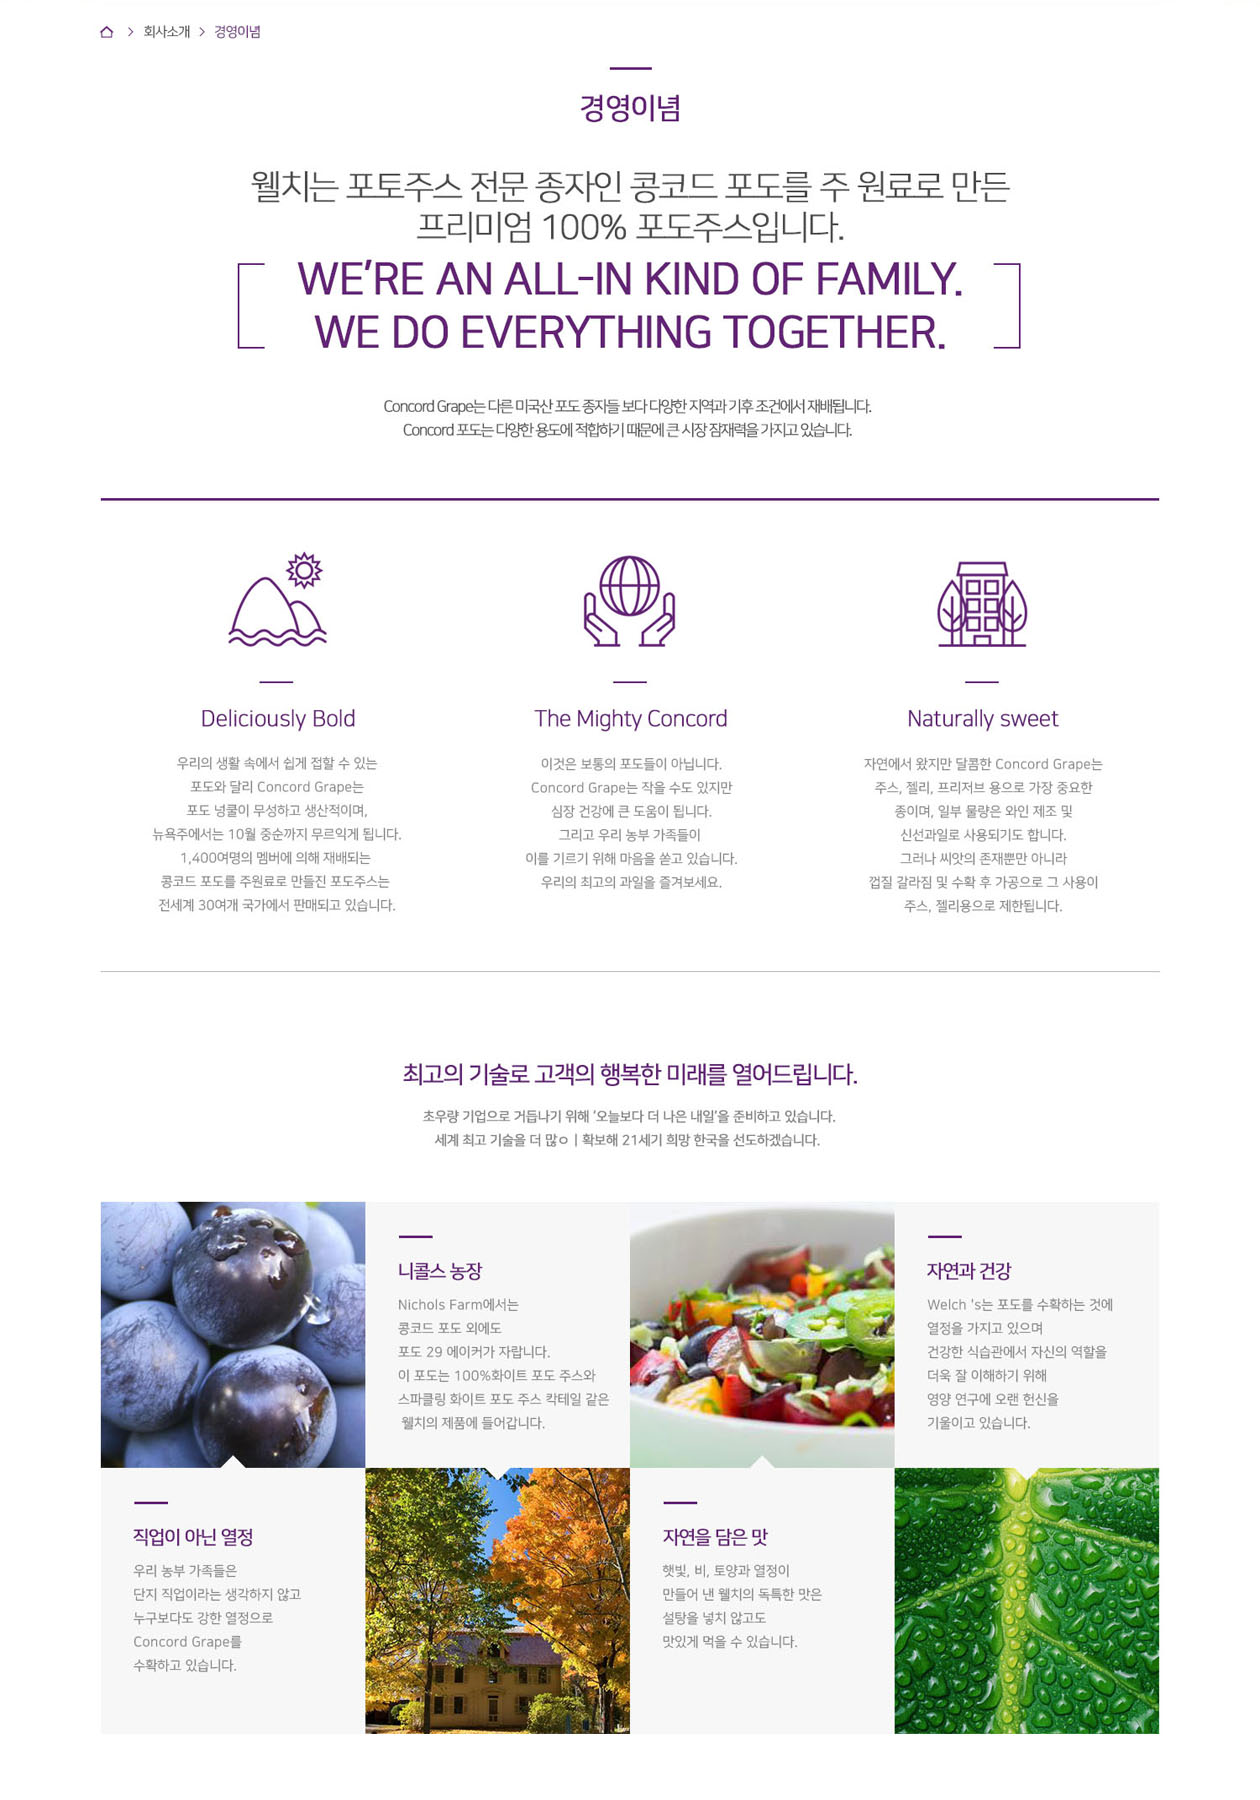
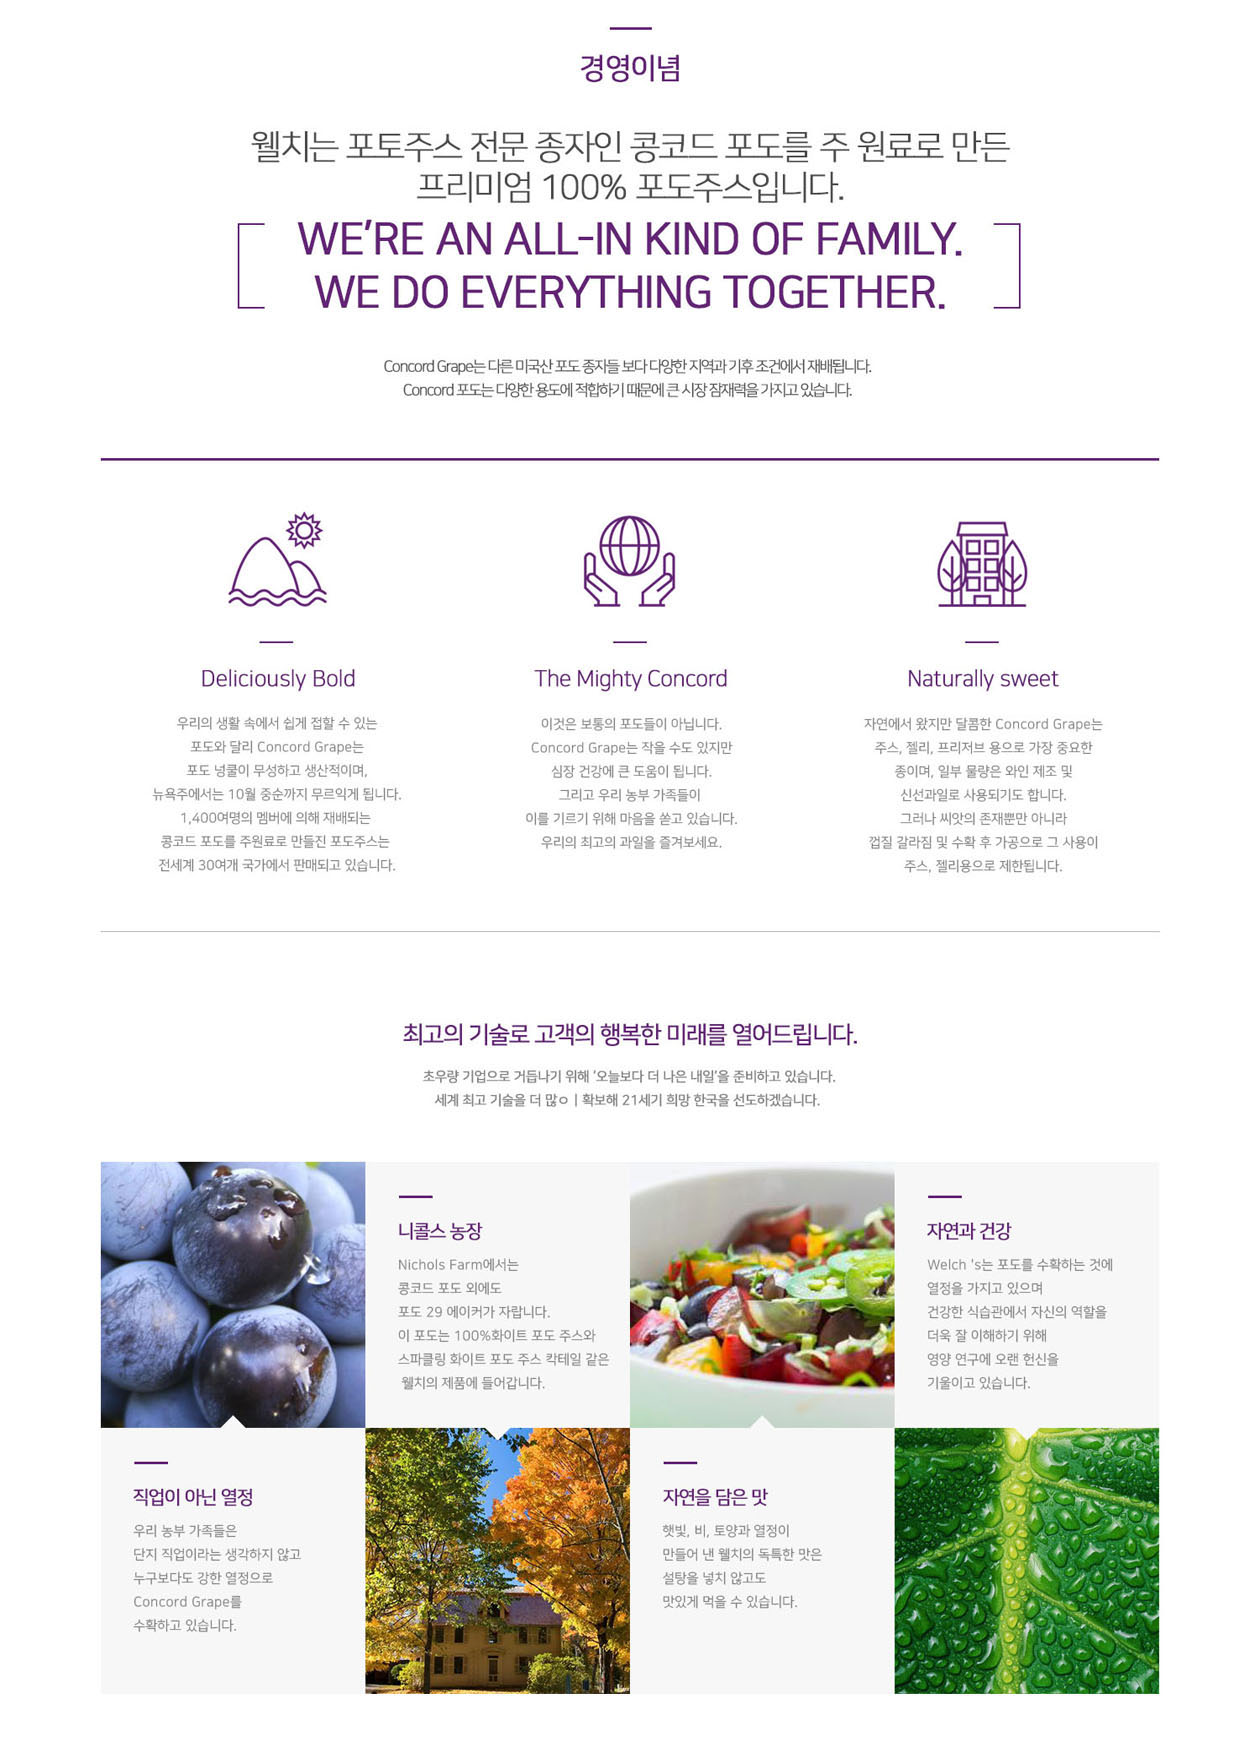
company

Changed region(s): [[0.0619, 0.5625, 0.9286, 0.9688], [0.0929, 0.0312, 0.8976, 0.5312], [0.1857, 0.0, 0.2167, 0.0312]]

diff --git a/04company/css/style.css b/04company/css/style.css
@@ -1,14 +1,15 @@
 @charset "utf-8";
-#sub_header > #sub_header_top > #sub_menu > ul> li > a.on{color: #632475;
+body{min-width: 1260px;}
+#sub_header > #sub_header_top > #sub_menu > ul> li > a.on{color: #fff;
+text-shadow: -3px 0 5px #b3b3b3,3px 0 5px #b3b3b3,0 0 15px #000;}
+#sub02_header > #sub02_header_top > #sub02_menu > ul> li > a.on{color: #fff;
+text-shadow: 0 0 10px #000;}
+#sub03_header > #sub03_header_top > #sub03_menu > ul> li > a.on{color: #4c4c4c;
 text-shadow: 0 0 5px #fff,0 0 5px #fff,0 0 5px #fff;}
-#sub02_header > #sub02_header_top > #sub02_menu > ul> li > a.on{color: #632475;
-text-shadow: 0 0 5px #fff,0 0 5px #fff,0 0 5px #fff;}
-#sub03_header > #sub03_header_top > #sub03_menu > ul> li > a.on{color: #632475;
-text-shadow: 0 0 5px #fff,0 0 5px #fff,0 0 5px #fff;}
-#sub04_header > #sub04_header_top > #sub04_menu > ul> li > a.on{color: #632475;
-text-shadow: 0 0 5px #fff,0 0 5px #fff,0 0 5px #fff;}
-#sub05_header > #sub05_header_top > #sub05_menu > ul> li > a.on{color: #632475;
-text-shadow: 0 0 5px #fff,0 0 5px #fff,0 0 5px #fff;}
+#sub04_header > #sub04_header_top > #sub04_menu > ul> li > a.on{color: #fff;
+text-shadow: 0 0 10px #000,0 0 20px #000;}
+#sub05_header > #sub05_header_top > #sub05_menu > ul> li > a.on{color: #fff;
+text-shadow: 0 0 10px #000,0 0 10px #000;}
 
 
 #main_header{height:1950px; position: relative;}
@@ -23,6 +24,12 @@ text-shadow: 0 0 5px #fff,0 0 5px #fff,0 0 5px #fff;}
 	#main_menu ul li a{display:block;padding:0 30px;
 		color: #4c4c4c;line-height:50px;
 		font-weight:bold;}
+	#main_menu ul li>a:after{content:"";display: block;
+		width: 0;height: 2px;
+		margin-top: -7px;
+		background-color: #632475;
+		transition: .3s;}
+	#main_menu ul li a:hover:after{width: 100%;}
 	#main_menu ul>li.kro,
 	#main_menu ul>li.eng{display:block;
 		width: 50px;height: 50px;}
@@ -30,6 +37,8 @@ text-shadow: 0 0 5px #fff,0 0 5px #fff,0 0 5px #fff;}
 	#main_menu ul>li.eng{border:1px solid #632475;}
 		#main_menu ul li.kro>a,
 		#main_menu ul li.eng>a{padding-left: 10px;color:#fff;font-weight:normal;}
+		#main_menu ul li.kro>a:after{display: none;}
+		#main_menu ul li.eng>a:after{display: none;}
 		#main_menu ul li.eng>a{color: #4c4c4c;}
 
 /*bxslider*/
@@ -280,48 +289,54 @@ footer{width : 100%; height:200px ;background-color: #fff;
 
 
 /*----------------------------------------sub01----------------------------------------*/
-#sub_header{height: 460px;margin: 0 auto;
-		background: url(../images/sub_img_01.jpg)no-repeat;
-		background-size: cover;position: relative;}
+#sub_header{height: 450px;margin: 0 auto;
+	background: url(../images/sub_img_01_1.png)no-repeat bottom;
+	background-size: cover;position: relative;}
+#sub_header:after{position: absolute;bottom: 0;
+	left: 50%;transform: translate(-50%);
+	content:"";display: block;width: 1260px;height: 1px;
+	background-color: #e5e5e5;}
 	#sub_header_top{width:1260px;height:50px;
-		margin: 0 auto;/*
-		position:absolute;left:50%;margin-left:-630px;
-		top:40px;z-index: 1;*/}
+		margin: 0 auto;}
 	#sub_header_top > a{float:left;padding-top: 25px;}
 	
 	#sub_menu{float:right;}
 	#sub_menu ul{padding-top: 25px;}
 	#sub_menu ul li{float: left;}
 	#sub_menu ul li a{display:block;padding:0 30px;
-		color: #fff;line-height:50px;
-		font-weight:bold;}
+		color: #ccc;line-height:50px;
+		font-weight:bold;
+		_text-shadow: 0 0 15px #fff,0 0 10px #fff;}
 	#sub_menu ul>li.kro,
 	#sub_menu ul>li.eng{display:block;
 		width: 50px;height: 50px;}
 	#sub_menu ul>li.kro{background-color: #632475;}
 	#sub_menu ul>li.eng{border:1px solid #632475;}
+		#sub_menu ul li.kro>a{color: #fff;text-shadow: none;}
 		#sub_menu ul li.kro>a,
 		#sub_menu ul li.eng>a{padding-left: 10px;font-weight:normal;}
-		#sub_menu2{width: 980px;margin: 0 auto; 
-			position: absolute;left: 50%;margin-left: -480px;bottom: 0;}
+		#sub_menu2{width: 910px;margin: 0 auto; 
+			position: absolute;bottom: 0;
+			left: 50%;transform: translate(-50%,0);}
 		#sub_menu2 ul{}
-		#sub_menu2 li{float: left;width: 50%;height: 60px;
-			border-bottom: 2px solid #632475;
-			border-right:1px solid #bdbdbd;
-			background-color: #fff;
+		#sub_menu2 li{float: left;width: 450px;height: 60px;
+			background-color: rgba(255,255,255,0.5);
 			text-align: center;line-height: 60px;}
-		#sub_menu2 .active{background-color: #632475;}
-		#sub_menu2 .active a{color: #fff;font-weight: bold;}
-		#sub_menu2 li:last-child{border-right: none;}
-		#sub_menu2 a{display:block;color:#808080;}
+		#sub_menu2 li:last-child{margin-left: 10px;}
+		#sub_menu2 .active{background-color: rgba(99,36,117,0.7);}
+		#sub_menu2 .active a{color: #fff;}
+		#sub_menu2 a{display:block;font-weight: bold;color:#808080;}
 		/*text*/
 		#sub_txt{padding-top: 170px;color:white;text-align: center;}
-		#sub_txt p{font-size:1.2em;}
-		#sub_txt h3{font-size:2em;padding-top: 30px;}
+		#sub_txt p{font-size:1.3em;}
+		#sub_txt h3{font-size:2em;padding-top: 10px;}
 
 	/*content*/
-	#sub_content{}		
-		.sub_img{width: 1260px;margin: 0 auto;}
+	#sub_content{width: 1260px;margin: 0 auto;}
+		.sub_img{}
+		.sub_img p{color:#4c4c4c;font-size:0.9em;
+			margin: 30px 0 0 100px;}
+		.sub_img span{font-weight:bold;font-size: 1.1em;}
 		.sub_img div{display: none;}
 		.sub_img div:first-child{display: block;}
 
@@ -397,9 +412,13 @@ footer{width : 100%; height:200px ;background-color: #fff;
 
 
 /*----------------------------------------sub02----------------------------------------*/
-#sub02_header{height: 615px;margin: 0 auto;
-		background: url(../images/sub_img_02.jpg)no-repeat right;
+#sub02_header{height: 450px;margin: 0 auto;
+		background: url(../images/sub_img_02_1.png)no-repeat bottom;
 		background-size: cover;position: relative;}
+#sub02_header:after{position: absolute;bottom: 0;
+	left: 50%;transform: translate(-50%);
+	content:"";display: block;width: 1260px;height: 1px;
+	background-color: #e5e5e5;}
 	#sub02_header_top{width:1260px;height:50px;
 		margin: 0 auto;/*
 		position:absolute;left:50%;margin-left:-630px;
@@ -420,24 +439,23 @@ footer{width : 100%; height:200px ;background-color: #fff;
 		#sub02_menu ul li.kro>a{color:#fff;}
 		#sub02_menu ul li.kro>a,
 		#sub02_menu ul li.eng>a{padding-left: 10px;font-weight:normal;}
-		#sub02_menu2{width: 1260px;margin: 0 auto; 
-			position: absolute;left: 50%;margin-left: -630px;bottom: 0;}
+		#sub02_menu2{width: 910px;margin: 0 auto; 
+			position: absolute;bottom: 0;
+			left: 50%;transform: translate(-50%,0);}
 		#sub02_menu2 ul{}
-		#sub02_menu2 li{float: left;width: 50%;height: 60px;
-			border-bottom: 2px solid #632475;
-			border-right:1px solid #bdbdbd;
+		#sub02_menu2 li{float: left;width: 450px;height: 60px;
 			background-color: #fff;
 			text-align: center;line-height: 60px;}
-		#sub02_menu2 .active{background-color: #632475;}
-		#sub02_menu2 .active a{color: #fff;font-weight: bold;}
-		#sub02_menu2 li:last-child{border-right: none;}
-		#sub02_menu2 a{display:block;color:#808080;}
+		#sub02_menu2 li:last-child{margin-left: 10px;}
+		#sub02_menu2 .active{background-color: rgba(99,36,117,0.7);}
+		#sub02_menu2 .active a{color: #fff;}
+		#sub02_menu2 a{display:block;font-weight: bold;color:#808080;}
 		/*text*/
-		#sub02_txt{padding-top: 170px;color:white;text-align: center;}
-		#sub02_txt h3{font-size:2em;
-			color:#fff;
-			text-shadow: 
-			3px 0 0 #4c4c4c,
+		#sub02_txt{padding-top: 130px;color:white;text-align: center;}
+		#sub02_txt p{font-size:1.2em;font-weight: bold;
+			color:#fff;margin-bottom: 10px;
+			text-shadow:0 0 15px #000 
+			/*3px 0 0 #4c4c4c,
 			-3px 0 0 #4c4c4c,
 			0 3px 0 #4c4c4c,
 			0 -3px 0 #4c4c4c,
@@ -445,7 +463,8 @@ footer{width : 100%; height:200px ;background-color: #fff;
 			3px 3px 0 #4c4c4c,
 			-3px 3px 0 #4c4c4c,
 			3px -3px 0 #4c4c4c,
-			-3px -3px 0 #4c4c4c;}
+			-3px -3px 0 #4c4c4c*/;}
+		#sub02_txt img{width: 400px;height: 120px;}
 
 /*content*/
 	#sub02_content{}		
@@ -492,9 +511,9 @@ footer{width : 100%; height:200px ;background-color: #fff;
 		#sub03_menu ul li.kro>a,
 		#sub03_menu ul li.eng>a{padding-left: 10px;font-weight:normal;}
 		/*text*/
-		#sub03_txt{padding-top: 170px;color:white;text-align: center;}
-		#sub03_txt p{font-weight: bold;}
-		#sub03_txt h3{font-size: 1.5em;}
+		#sub03_txt{padding-top: 180px;color:white;text-align: center;}
+		#sub03_txt p{font-size:1.3em;}
+		#sub03_txt h3{font-size:2em;padding-top: 10px;}
 		#sub03_txt h4{color:#4c4c4c;font-size:1.5em;
 			position: absolute;bottom: 0;left: 100px;}
 /*content*/
@@ -522,7 +541,7 @@ footer{width : 100%; height:200px ;background-color: #fff;
 
 /*----------------------------------------sub04----------------------------------------*/
 #sub04_header{height: 450px;margin: 0 auto;
-	background: url(../images/sub_img_04.png) no-repeat bottom;
+	background: url(../images/sub_img_04_1.png) no-repeat bottom;
 	background-size: cover;position: relative;
 	/*border-bottom: 2px solid #632475;*/}
 
@@ -546,12 +565,14 @@ footer{width : 100%; height:200px ;background-color: #fff;
 		#sub04_menu ul li.kro>a,
 		#sub04_menu ul li.eng>a{padding-left: 10px;font-weight:normal;}
 		/*text*/
-		#sub04_txt{padding-top: 170px;color: #4c4c4c;text-align: center;
-			text-shadow: 0 0 5px #fff,0 0 5px #fff,0 0 5px #fff;}
-		#sub04_txt p{font-weight: bold;}
-		#sub04_txt h3{font-size: 1.5em;}
+		#sub04_txt{padding-top: 180px;color: #fff;text-align: center;
+			text-shadow: 0 0 15px #000, 0 0 15px #000, 0 0 15px #000;}
+		#sub04_txt p{font-size:1.3em;_font-weight: bold;}
+		#sub04_txt h3{font-size:2em;padding-top: 10px;
+			text-shadow: 0 0 15px #000;}
 		#sub04_txt h4{color:#4c4c4c;font-size:1.5em;
-			position: absolute;bottom: 0;left: 100px;}
+			position: absolute;bottom: 0;left: 100px;
+			text-shadow: none;}
 	/*content*/
 	#sub04_content{}		
 		.sub04_img{width: 1260px;margin: 0 auto;}
@@ -604,12 +625,13 @@ footer{width : 100%; height:200px ;background-color: #fff;
 		#sub05_menu ul li.kro>a,
 		#sub05_menu ul li.eng>a{padding-left: 10px;font-weight:normal;}
 		/*text*/
-		#sub05_txt{padding-top: 170px;color: #4c4c4c;text-align: center;
-			text-shadow: 0 0 5px #fff,0 0 5px #fff,0 0 5px #fff;}
-		#sub05_txt p{font-weight: bold;}
-		#sub05_txt h3{font-size: 1.5em;}
+		#sub05_txt{padding-top: 180px;color: #fff;text-align: center;
+			text-shadow: 0 0 10px #000;}
+		#sub05_txt p{font-size:1.3em;}
+		#sub05_txt h3{font-size:2em;padding-top: 10px;}
 		#sub05_txt h4{color:#4c4c4c;font-size:1.5em;
-			position: absolute;bottom: 0;left: 100px;}
+			position: absolute;bottom: 0;left: 100px;
+			text-shadow: none;}
 	/*content*/
 	#sub05_content{}		
 		.sub05_img{width: 1260px;margin: 0 auto;}

diff --git a/04company/sub01.html b/04company/sub01.html
@@ -52,7 +52,7 @@
 			<a href="main.html"><img src="images/logo.png" alt=""></a>
 			<nav id="sub_menu">
 				<ul class="clearfix">
-					<li><a href="sub01.html" class="on">Management</a></li>
+					<li><a href="sub01.html" class="on">Our Value</a></li>
 					<li><a href="sub02.html">Our Story</a></li>
 					<li><a href="sub03.html">Products</a></li>
 					<li><a href="sub04.html">Recipes</a></li>
@@ -78,11 +78,18 @@
 		</div>
 	</header>
 	<div id="sub_content">
+		
 		<div class="sub_img">
 			<div>
+				<p>
+					> Our Value > <span>Management</span>
+				</p>
 				<img src="images/sub_content_img_01_2.jpg" alt="2">
 			</div>
 			<div>
+				<p>
+					> Our Value > <span>Concept</span>
+				</p>
 				<img src="images/sub_content_img_01_1.jpg" alt="1">
 			</div>
 		</div>

diff --git a/04company/sub02.html b/04company/sub02.html
@@ -35,7 +35,7 @@
 			<a href="main.html"><img src="images/sub02_logo_01.png" alt=""></a>
 			<nav id="sub02_menu">
 				<ul class="clearfix">
-					<li><a href="sub01.html">Management</a></li>
+					<li><a href="sub01.html">Our Value</a></li>
 					<li><a href="sub02.html" class="on">Our Story</a></li>
 					<li><a href="sub03.html">Products</a></li>
 					<li><a href="sub04.html">Recipes</a></li>
@@ -51,10 +51,10 @@
 				</ul>
 			</div>
 			<div id="sub02_txt">
-				<h3>
+				<!-- <p>
 					FAMILY FARMER OWNED<br>
 					140여년 전통의 포도명가
-				</h3>
+				</p> -->
 				<img src="images/sub02_logo.png" alt="">
 			</div>
 		</div>

diff --git a/04company/main.html b/04company/main.html
@@ -65,7 +65,7 @@
 			<a href="main.html"><img src="images/logo.png" alt=""></a>
 			<nav id="main_menu">
 				<ul class="clearfix">
-					<li><a href="sub01.html">Management</a></li>
+					<li><a href="sub01.html">Our Value</a></li>
 					<li><a href="sub02.html">Our Story</a></li>
 					<li><a href="sub03.html">Products</a></li>
 					<li><a href="sub04.html">Recipes</a></li>

diff --git a/04company/sub03.html b/04company/sub03.html
@@ -37,7 +37,7 @@
 			</a>
 			<nav id="sub03_menu">
 				<ul class="clearfix">
-					<li><a href="sub01.html">Management</a></li>
+					<li><a href="sub01.html">Our Value</a></li>
 					<li><a href="sub02.html">Our Story</a></li>
 					<li><a href="sub03.html" class="on">Products</a></li>
 					<li><a href="sub04.html">Recipes</a></li>

diff --git a/04company/sub04.html b/04company/sub04.html
@@ -37,7 +37,7 @@
 			</a>
 			<nav id="sub04_menu">
 				<ul class="clearfix">
-					<li><a href="sub01.html">Management</a></li>
+					<li><a href="sub01.html">Our Value</a></li>
 					<li><a href="sub02.html">Our Story</a></li>
 					<li><a href="sub03.html">Products</a></li>
 					<li><a href="sub04.html" class="on">Recipes</a></li>

diff --git a/04company/sub05.html b/04company/sub05.html
@@ -37,7 +37,7 @@
 			</a>
 			<nav id="sub05_menu">
 				<ul class="clearfix">
-					<li><a href="sub01.html">Management</a></li>
+					<li><a href="sub01.html">Our Value</a></li>
 					<li><a href="sub02.html">Our Story</a></li>
 					<li><a href="sub03.html">Products</a></li>
 					<li><a href="sub04.html">Recipes</a></li>
